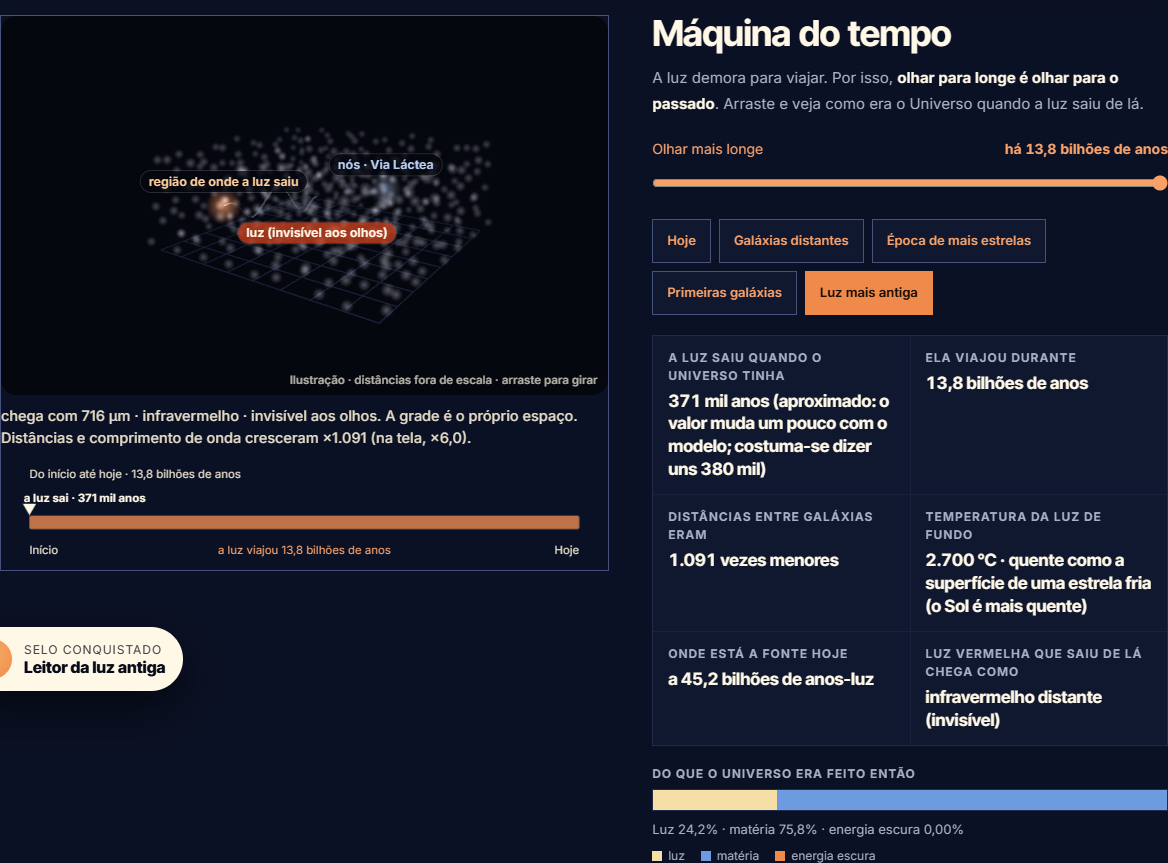
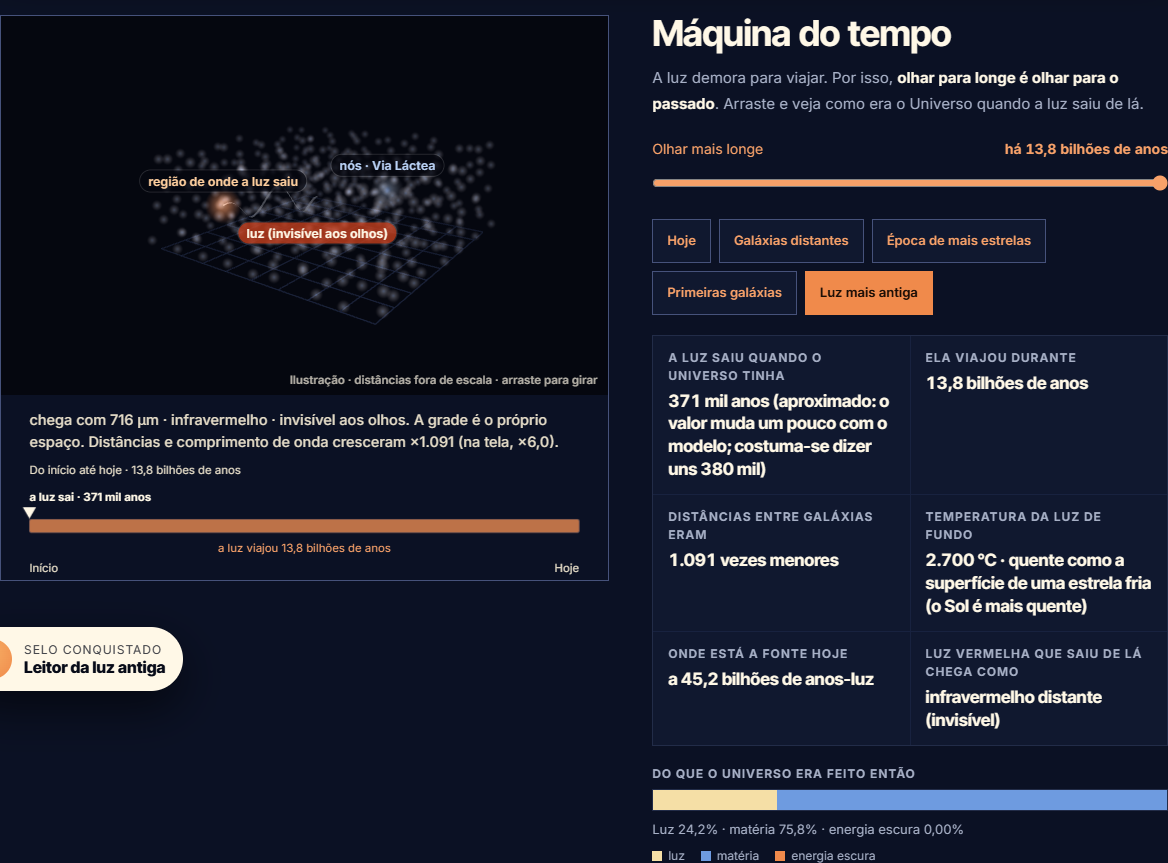
Máquina do tempo: rótulos dentro do quadro, linha do tempo sem sobreposição, nota alinhada [publish-cosmos-custom]
e2e ignora transição entre páginas abortada pela própria navegação do teste.

Changed region(s): [[0.0, 0.4519, 0.4932, 0.6628], [0.1849, 0.1808, 0.4007, 0.3917], [0.1233, 0.2109, 0.1541, 0.241]]

diff --git a/cosmos-do-zero/src/scripts/lab/tempo.ts b/cosmos-do-zero/src/scripts/lab/tempo.ts
@@ -49,18 +49,18 @@ export function initTempo(root: HTMLElement): void {
   const age0 = ageNow(PLANCK);
 
   // ── desenho estático (eixos) ──
-  const W = 640;
-  const trackX = 30, trackW = 580, trackY = 62;
+  const trackX = 30, trackW = 580, trackY = 70;
   clear(svgEl);
   svg('text', { x: trackX, y: 22, class: 'obs-cap' }, svgEl, 'Do início até hoje · 13,8 bilhões de anos');
   svg('rect', { x: trackX, y: trackY, width: trackW, height: 14, rx: 2, class: 'obs-track' }, svgEl);
   const travel = svg('rect', { x: trackX, y: trackY, width: 0, height: 14, rx: 2, class: 'obs-travel' }, svgEl);
   const pin = svg('g', { class: 'obs-pin' }, svgEl);
   svg('path', { d: 'M0 0 L-7 -12 H7 Z', class: 'obs-pinhead' }, pin);
-  const pinText = svg('text', { y: -15, 'text-anchor': 'middle', class: 'obs-cap strong' }, pin, 'a luz sai');
-  svg('text', { x: trackX, y: 102, class: 'obs-cap' }, svgEl, 'Início');
-  svg('text', { x: trackX + trackW, y: 102, 'text-anchor': 'end', class: 'obs-cap' }, svgEl, 'Hoje');
-  const travelLabel = svg('text', { y: 102, 'text-anchor': 'middle', class: 'obs-cap warm' }, svgEl, '');
+  const pinText = svg('text', { y: -19, 'text-anchor': 'middle', class: 'obs-cap strong' }, pin, 'a luz sai');
+  svg('text', { x: trackX, y: 126, class: 'obs-cap' }, svgEl, 'Início');
+  svg('text', { x: trackX + trackW, y: 126, 'text-anchor': 'end', class: 'obs-cap' }, svgEl, 'Hoje');
+  // sob o trecho percorrido, numa linha própria para não encostar em Início/Hoje
+  const travelLabel = svg('text', { y: 104, 'text-anchor': 'middle', class: 'obs-cap warm' }, svgEl, '');
 
   // duas janelas: o mesmo pedaço de espaço quando a luz saiu e hoje. A grade é o próprio espaço;
   // a onda acompanha a grade. Na tela o crescimento é comprimido (até ×6); o valor real aparece no texto.
@@ -107,7 +107,7 @@ export function initTempo(root: HTMLElement): void {
     import('./tempo3d').then((m) => m.mountTempo3D(host3d, reduced)).then((v) => {
       if (!v) return;
       view3d = v; host3d.hidden = false; if (note3d) note3d.hidden = false;
-      winsG.setAttribute('display', 'none'); svgEl.setAttribute('viewBox', '0 0 640 120');
+      winsG.setAttribute('display', 'none'); svgEl.setAttribute('viewBox', '0 0 640 134');
       host3d.addEventListener('obs3d:lost', () => { view3d = null; use2d(); }, { once: true });
       render();
     }).catch(() => use2d());
@@ -140,12 +140,12 @@ export function initTempo(root: HTMLElement): void {
     const px = trackX + trackW * Math.min(1, ageThen / age0);
     travel.setAttribute('x', String(px)); travel.setAttribute('width', String(trackX + trackW - px));
     pin.setAttribute('transform', `translate(${px} ${trackY})`);
-    const anchor = px < 120 ? 'start' : px > W - 120 ? 'end' : 'middle';
-    pinText.setAttribute('text-anchor', anchor); pinText.setAttribute('x', anchor === 'start' ? '-6' : anchor === 'end' ? '6' : '0');
+    // textos centrados no ponto, empurrados para dentro da trilha (a fonte cresce no mobile)
+    const fit = (t: SVGTextElement, cx: number) => { const half = t.getComputedTextLength() / 2; return Math.min(Math.max(cx, trackX + half), trackX + trackW - half); };
     pinText.textContent = z < 0.005 ? 'agora' : `a luz sai · ${duration(ageThen)}`;
+    pinText.setAttribute('x', String(fit(pinText, px) - px));
     travelLabel.textContent = z < 0.005 ? '' : `a luz viajou ${duration(look)}`;
-    travelLabel.setAttribute('x', String((px + trackX + trackW) / 2));
-    travelLabel.setAttribute('visibility', trackX + trackW - px > 130 ? 'visible' : 'hidden');
+    travelLabel.setAttribute('x', String(fit(travelLabel, (px + trackX + trackW) / 2)));
 
     // janelas: crescimento real 1+z, comprimido na tela até ×6
     const grow = Math.pow(1 + z, Math.log(6) / Math.log(1 + Z_MAX));

diff --git a/cosmos-do-zero/src/scripts/lab/tempo3d.ts b/cosmos-do-zero/src/scripts/lab/tempo3d.ts
@@ -119,12 +119,15 @@ export async function mountTempo3D(host: HTMLElement, reduced: () => boolean): P
   };
 
   const tmp = new THREE.Vector3();
-  const place = (el: HTMLElement, v: THREE_NS.Vector3, dy = 0) => {
+  // rótulo centrado no ponto (acima dele, ou abaixo com below), mantido dentro do quadro
+  const place = (el: HTMLElement, v: THREE_NS.Vector3, dy = 0, below = false) => {
     tmp.copy(v).project(camera);
-    const w = canvas.clientWidth, h = canvas.clientHeight;
+    const w = canvas.clientWidth, h = canvas.clientHeight, ow = el.offsetWidth, oh = el.offsetHeight;
     const x = (tmp.x * 0.5 + 0.5) * w, y = (-tmp.y * 0.5 + 0.5) * h + dy;
-    el.style.transform = `translate(${x.toFixed(1)}px, ${y.toFixed(1)}px) translate(-50%, -100%)`;
+    const left = Math.min(Math.max(x - ow / 2, 6), w - ow - 6), top = Math.min(Math.max(below ? y : y - oh, 6), h - oh - 26);
+    el.style.transform = `translate(${left.toFixed(1)}px, ${top.toFixed(1)}px)`;
     el.hidden = tmp.z > 1;
+    return { left, top, ow, oh };
   };
 
   const render = () => {
@@ -165,12 +168,14 @@ export async function mountTempo3D(host: HTMLElement, reduced: () => boolean): P
     waveMat.opacity = invisible ? 0.55 + 0.25 * Math.sin(performance.now() / 300) : 0.95;
     controls.update();
     renderer.render(scene, camera);
-    place(labels.us, usMesh.position, -14);
-    place(labels.src, srcMesh.position, -14);
+    const a = place(labels.us, usMesh.position, -14);
+    const b = place(labels.src, srcMesh.position, -14);
+    // perto um do outro (tela estreita, luz mais antiga): a fonte sobe acima de "nós"
+    if (Math.abs(a.left + a.ow / 2 - b.left - b.ow / 2) < (a.ow + b.ow) / 2 + 4 && Math.abs(a.top - b.top) < a.oh + 4)
+      labels.src.style.transform = `translate(${b.left.toFixed(1)}px, ${Math.max(6, a.top - b.oh - 6).toFixed(1)}px)`;
     labels.src.hidden = labels.src.hidden || z < 0.005;
     const front = src.clone().addScaledVector(dir, Math.max(0.5, head));
-    place(labels.wave, front, 26);
-    labels.wave.style.transform += ' translate(0, 100%)';
+    place(labels.wave, front, 26, true);
     labels.wave.textContent = z < 0.005 ? '' : invisible ? 'luz (invisível aos olhos)' : 'luz vermelha';
     labels.wave.hidden = labels.wave.hidden || z < 0.005;
     void lam;

diff --git a/cosmos-do-zero/src/styles/lab.css b/cosmos-do-zero/src/styles/lab.css
@@ -206,7 +206,7 @@
 .obs-wave.invisible { stroke-dasharray: 7 6; }
 
 /* Máquina do tempo em 3D */
-.obs3d { position: relative; aspect-ratio: 16 / 10; border-radius: 16px; overflow: hidden; background: #05070f; margin-bottom: 10px; touch-action: pan-y; }
+.obs3d { position: relative; aspect-ratio: 16 / 10; overflow: hidden; background: #05070f; touch-action: pan-y; }
 .obs3d-canvas { position: absolute; inset: 0; width: 100%; height: 100%; display: block; cursor: grab; }
 .obs3d-canvas:active { cursor: grabbing; }
 .obs3d-label { position: absolute; left: 0; top: 0; pointer-events: none; white-space: nowrap; padding: 3px 8px; border-radius: 999px; font: 650 12.5px/1.2 var(--body); color: #fff8e7; background: rgba(5, 7, 15, .72); box-shadow: 0 0 0 1px rgba(255, 255, 255, .14); }
@@ -214,5 +214,6 @@
 .obs3d-label.src { color: #ffcf9e; }
 .obs3d-label.wave { color: #fff8e7; background: rgba(200, 64, 30, .78); }
 .obs3d-tag { position: absolute; right: 10px; bottom: 8px; margin: 0; font: 600 11.5px var(--body); color: rgba(255, 248, 231, .7); }
-.obs3d-note { margin: 0 0 8px; font: 500 14.5px/1.5 var(--body); color: var(--ink-2); }
+/* recuo igual ao da linha do tempo abaixo (x = 30 de 640 no SVG) */
+.obs3d-note { margin: 0; padding: 14px 4.7% 0; font: 500 14.5px/1.5 var(--body); color: var(--ink-2); }
 @media (max-width: 600px) { .obs3d { aspect-ratio: 4 / 4.4; } .obs3d-label { font-size: 12px; } }
